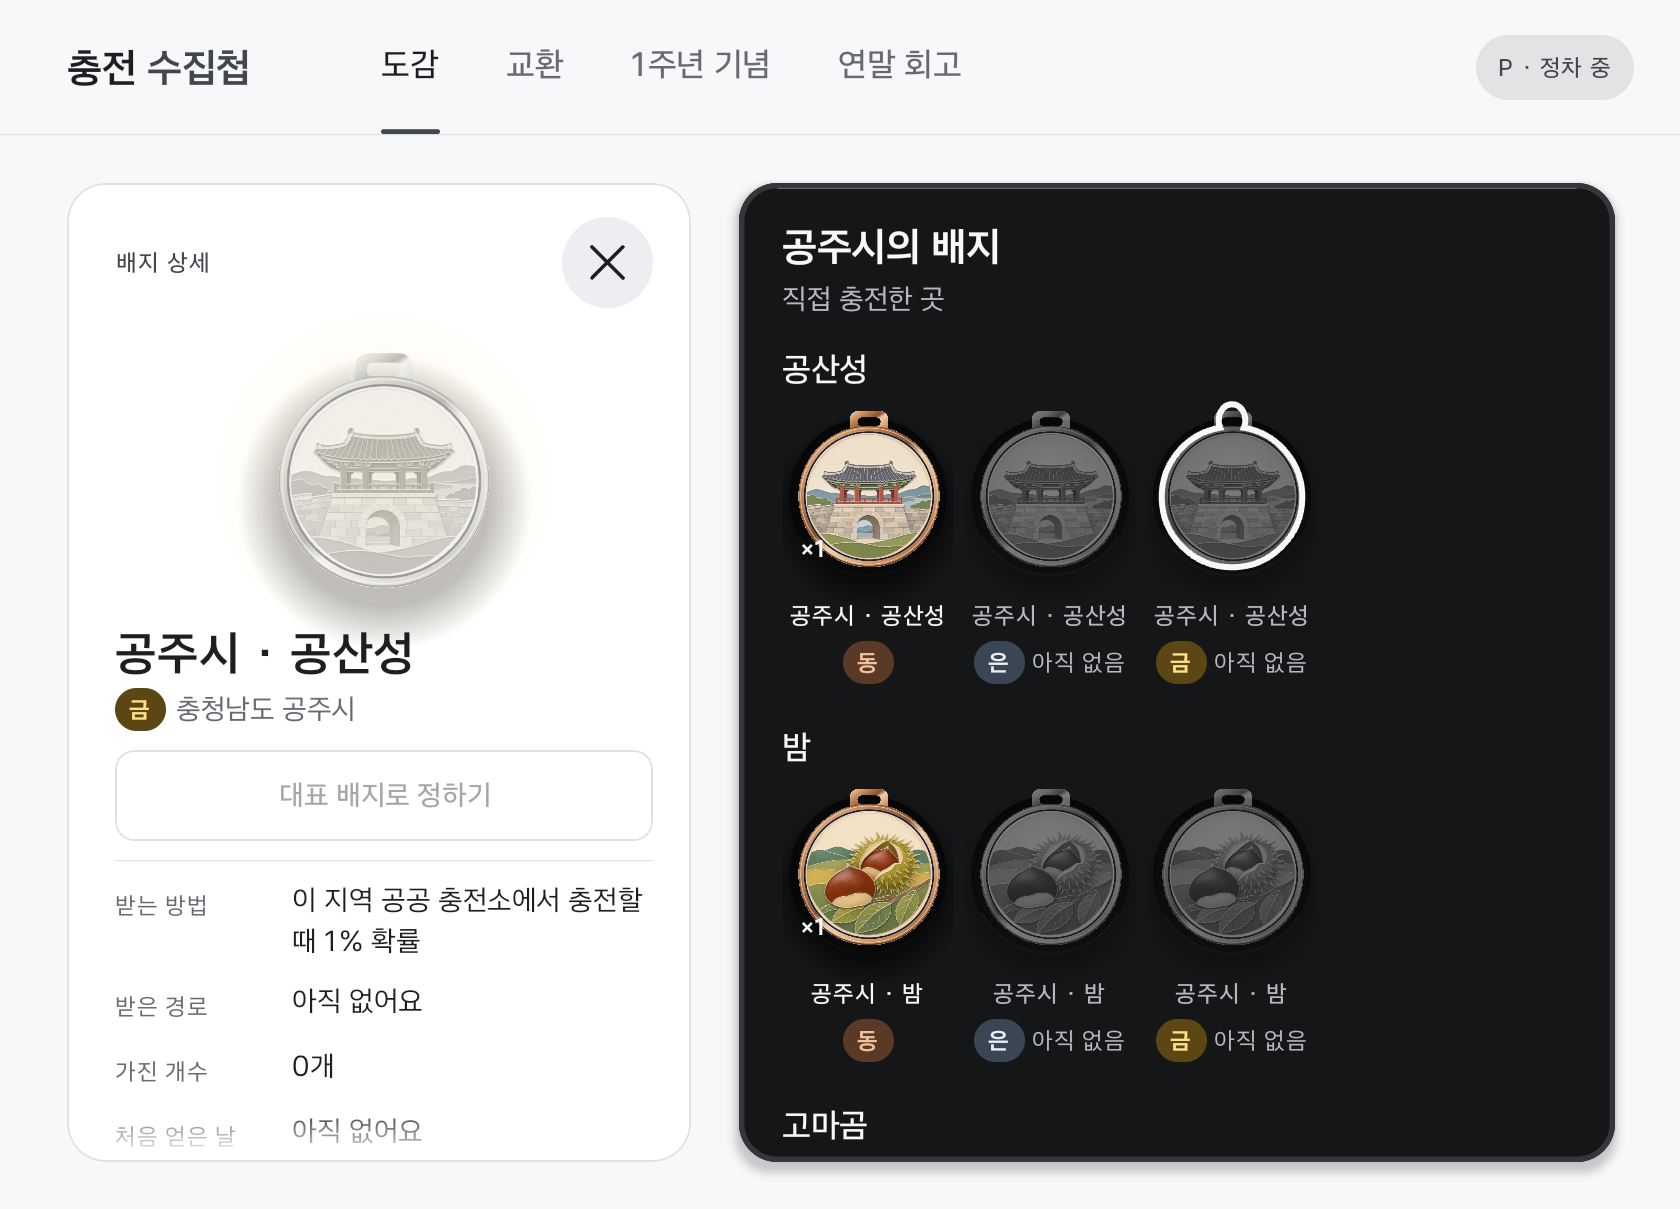
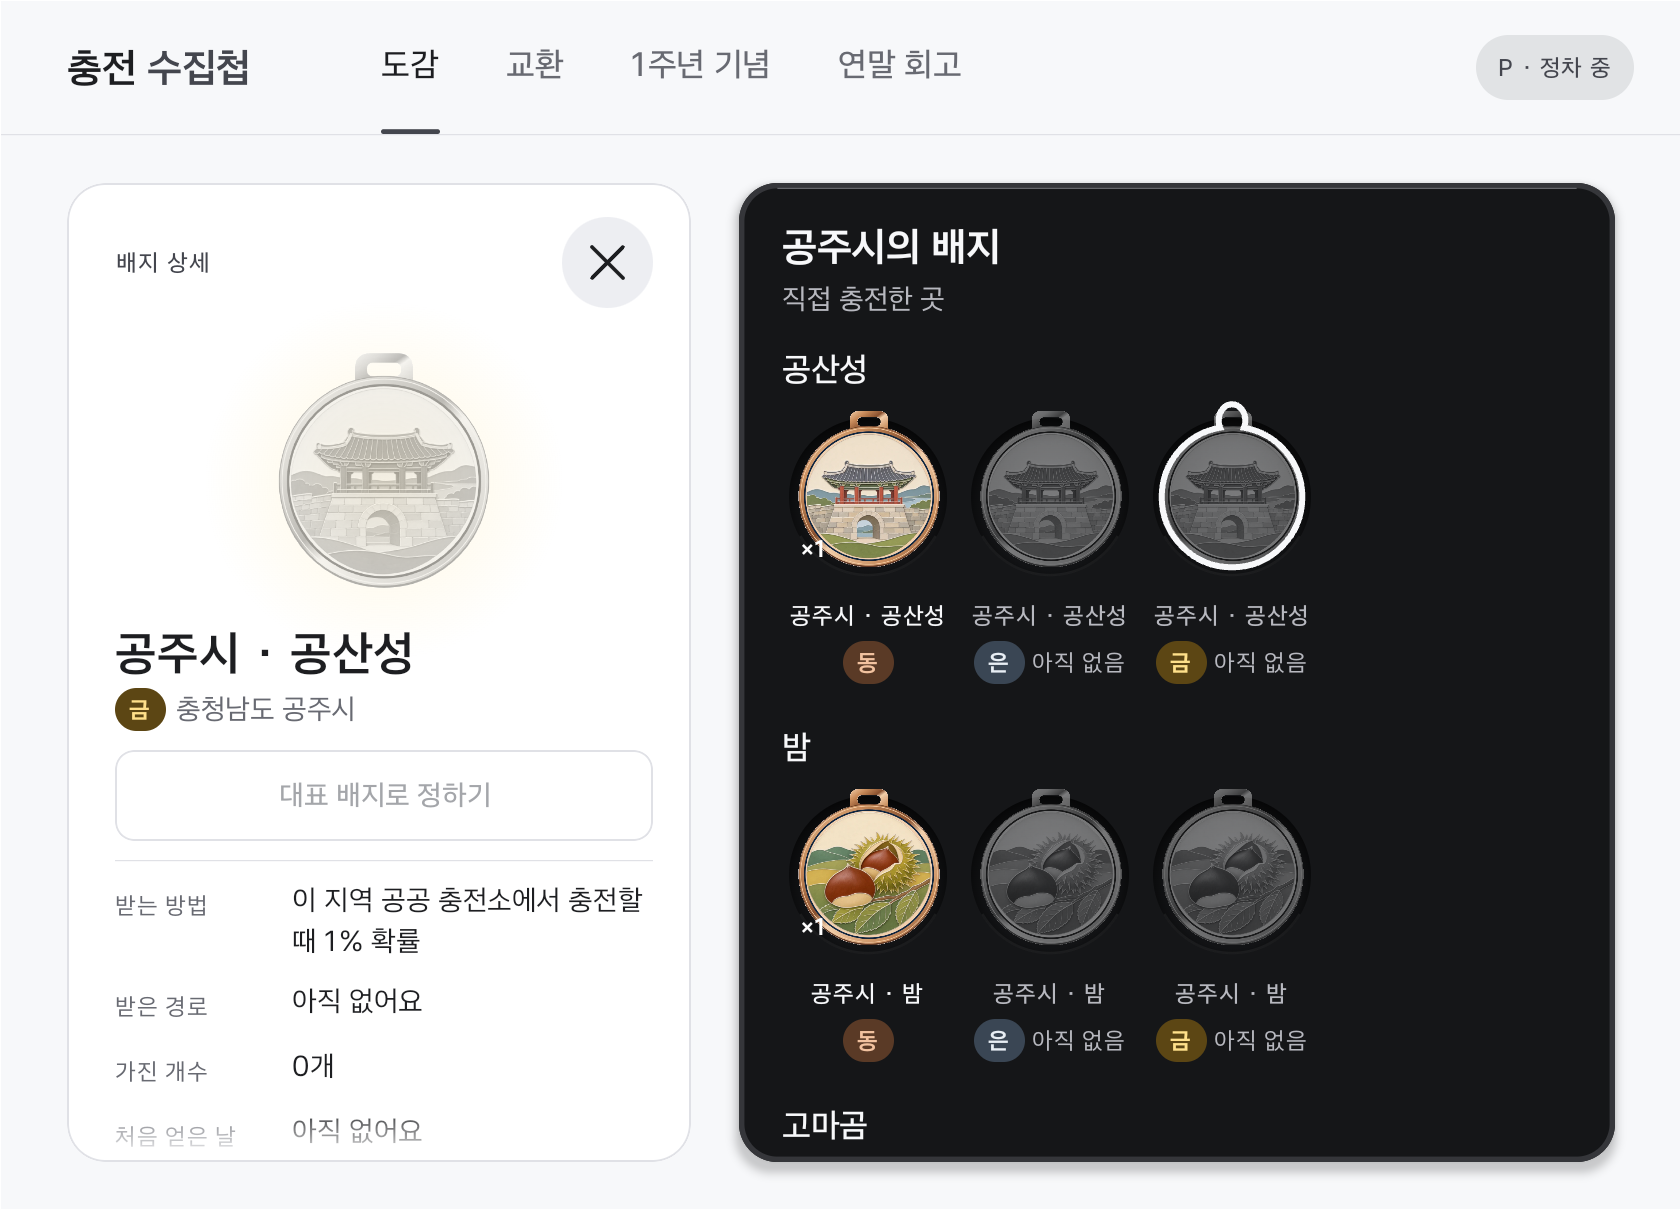
Remove oversized medal shadows and refresh screen captures

Changed region(s): [[0.1238, 0.3366, 0.3095, 0.5203], [0.2476, 0.306, 0.2786, 0.3366], [0.1857, 0.306, 0.2167, 0.3366]]

diff --git a/app/src/main/java/kr/chargebadge/Images.kt b/app/src/main/java/kr/chargebadge/Images.kt
@@ -91,16 +91,13 @@ object Art {
 
 /**
  * Medal disc [w] wide with its box's top-left at [at]; the ring tab is drawn above the box.
- * [bare] skips drop shadow and glow (for medals inside glass ornaments).
+ * 원본 메달의 금속 음영만 사용한다. 밝은 카드에 번지는 별도 원형 그림자는 그리지 않는다.
  */
+@Suppress("UNUSED_PARAMETER") // 기존 호출 시그니처는 유지하며 모든 메달의 외부 그림자를 없앤다.
 fun DrawScope.drawMedal(badge: Badge, w: Float, at: Offset = Offset.Zero, bare: Boolean = false) {
     val r = w / 2
     val c = Offset(at.x + r, at.y + r)
     val whole = Art.medal(badge)
-    if (!bare) {
-        val sc = Offset(c.x, c.y + r * 0.19f)
-        drawCircle(Brush.radialGradient(0f to Color(0x8C000000), 0.7f to Color(0x8C000000), 1f to Color.Transparent, center = sc, radius = r * 1.4f), r * 1.4f, sc)
-    }
     // Still loading: an empty disc.
     if (whole == null) return drawCircle(Color(0x14FFFFFF), r, c)
     // The disc (rim included) of the whole-medal image lands on this medal's disc; its tab rises above.
@@ -673,7 +670,7 @@ private val medalCache = object : LruCache<MedalKey, ImageBitmap>(48 * 1024 * 10
  */
 fun medalImage(badge: Badge, px: Int): ImageBitmap {
     val key = MedalKey(badge, px, Art.medal(badge))
-    // Shadow, gold glow and the ring tab reach 0.3w past the medal box.
+    // 원본 메달 이미지의 여백과 위로 솟은 고리가 잘리지 않도록 같은 캐시 여백을 유지한다.
     val pad = (px * 0.3f).roundToInt()
     return medalCache.get(key) ?: drawToBitmap(px + 2 * pad, px + 2 * pad) { drawMedal(badge, px.toFloat(), Offset(pad.toFloat(), pad.toFloat())) }
         .asImageBitmap().also { medalCache.put(key, it) }

diff --git a/docs/design-review/README.md b/docs/design-review/README.md
@@ -9,6 +9,14 @@
 - 캡처일: 2026-11-15. **샘플 날짜는 2026-12-03**, 시연용 현위치는 공주 산성시장 공영주차타워. 실제 사용자 이동 기록이 아닙니다.
 - 동일 Pleos 에뮬레이터 2560×1440에서 촬영. 차량 OS 창 재배치 후에는 실제 앱 창 좌표를 다시 읽어 절단했습니다. 아래 이미지는 OS 영역을 제외한 앱 부분 1680×1209이며, 내용·색·상태를 후처리하지 않았습니다.
 
+## 메달 그림자 보완
+
+메달 폭의 1.4배까지 번지던 검은 원형 그림자를 공통 렌더러에서 제거했습니다. 원본 메달의 금속 음영과 캐시 여백, 화면 배치는 유지했습니다. 아래 화면별 변경 후 캡처는 이 수정본을 실제 에뮬레이터에서 다시 촬영한 것입니다.
+
+| 이전 스타일 시안의 그림자 | 제거 후 |
+|---|---|
+| ![그림자 제거 전](shadow-before-collection.png) | ![그림자 제거 후](after-collection.png) |
+
 ## 변경 범위
 
 | 유지 | 스타일 변경 |
